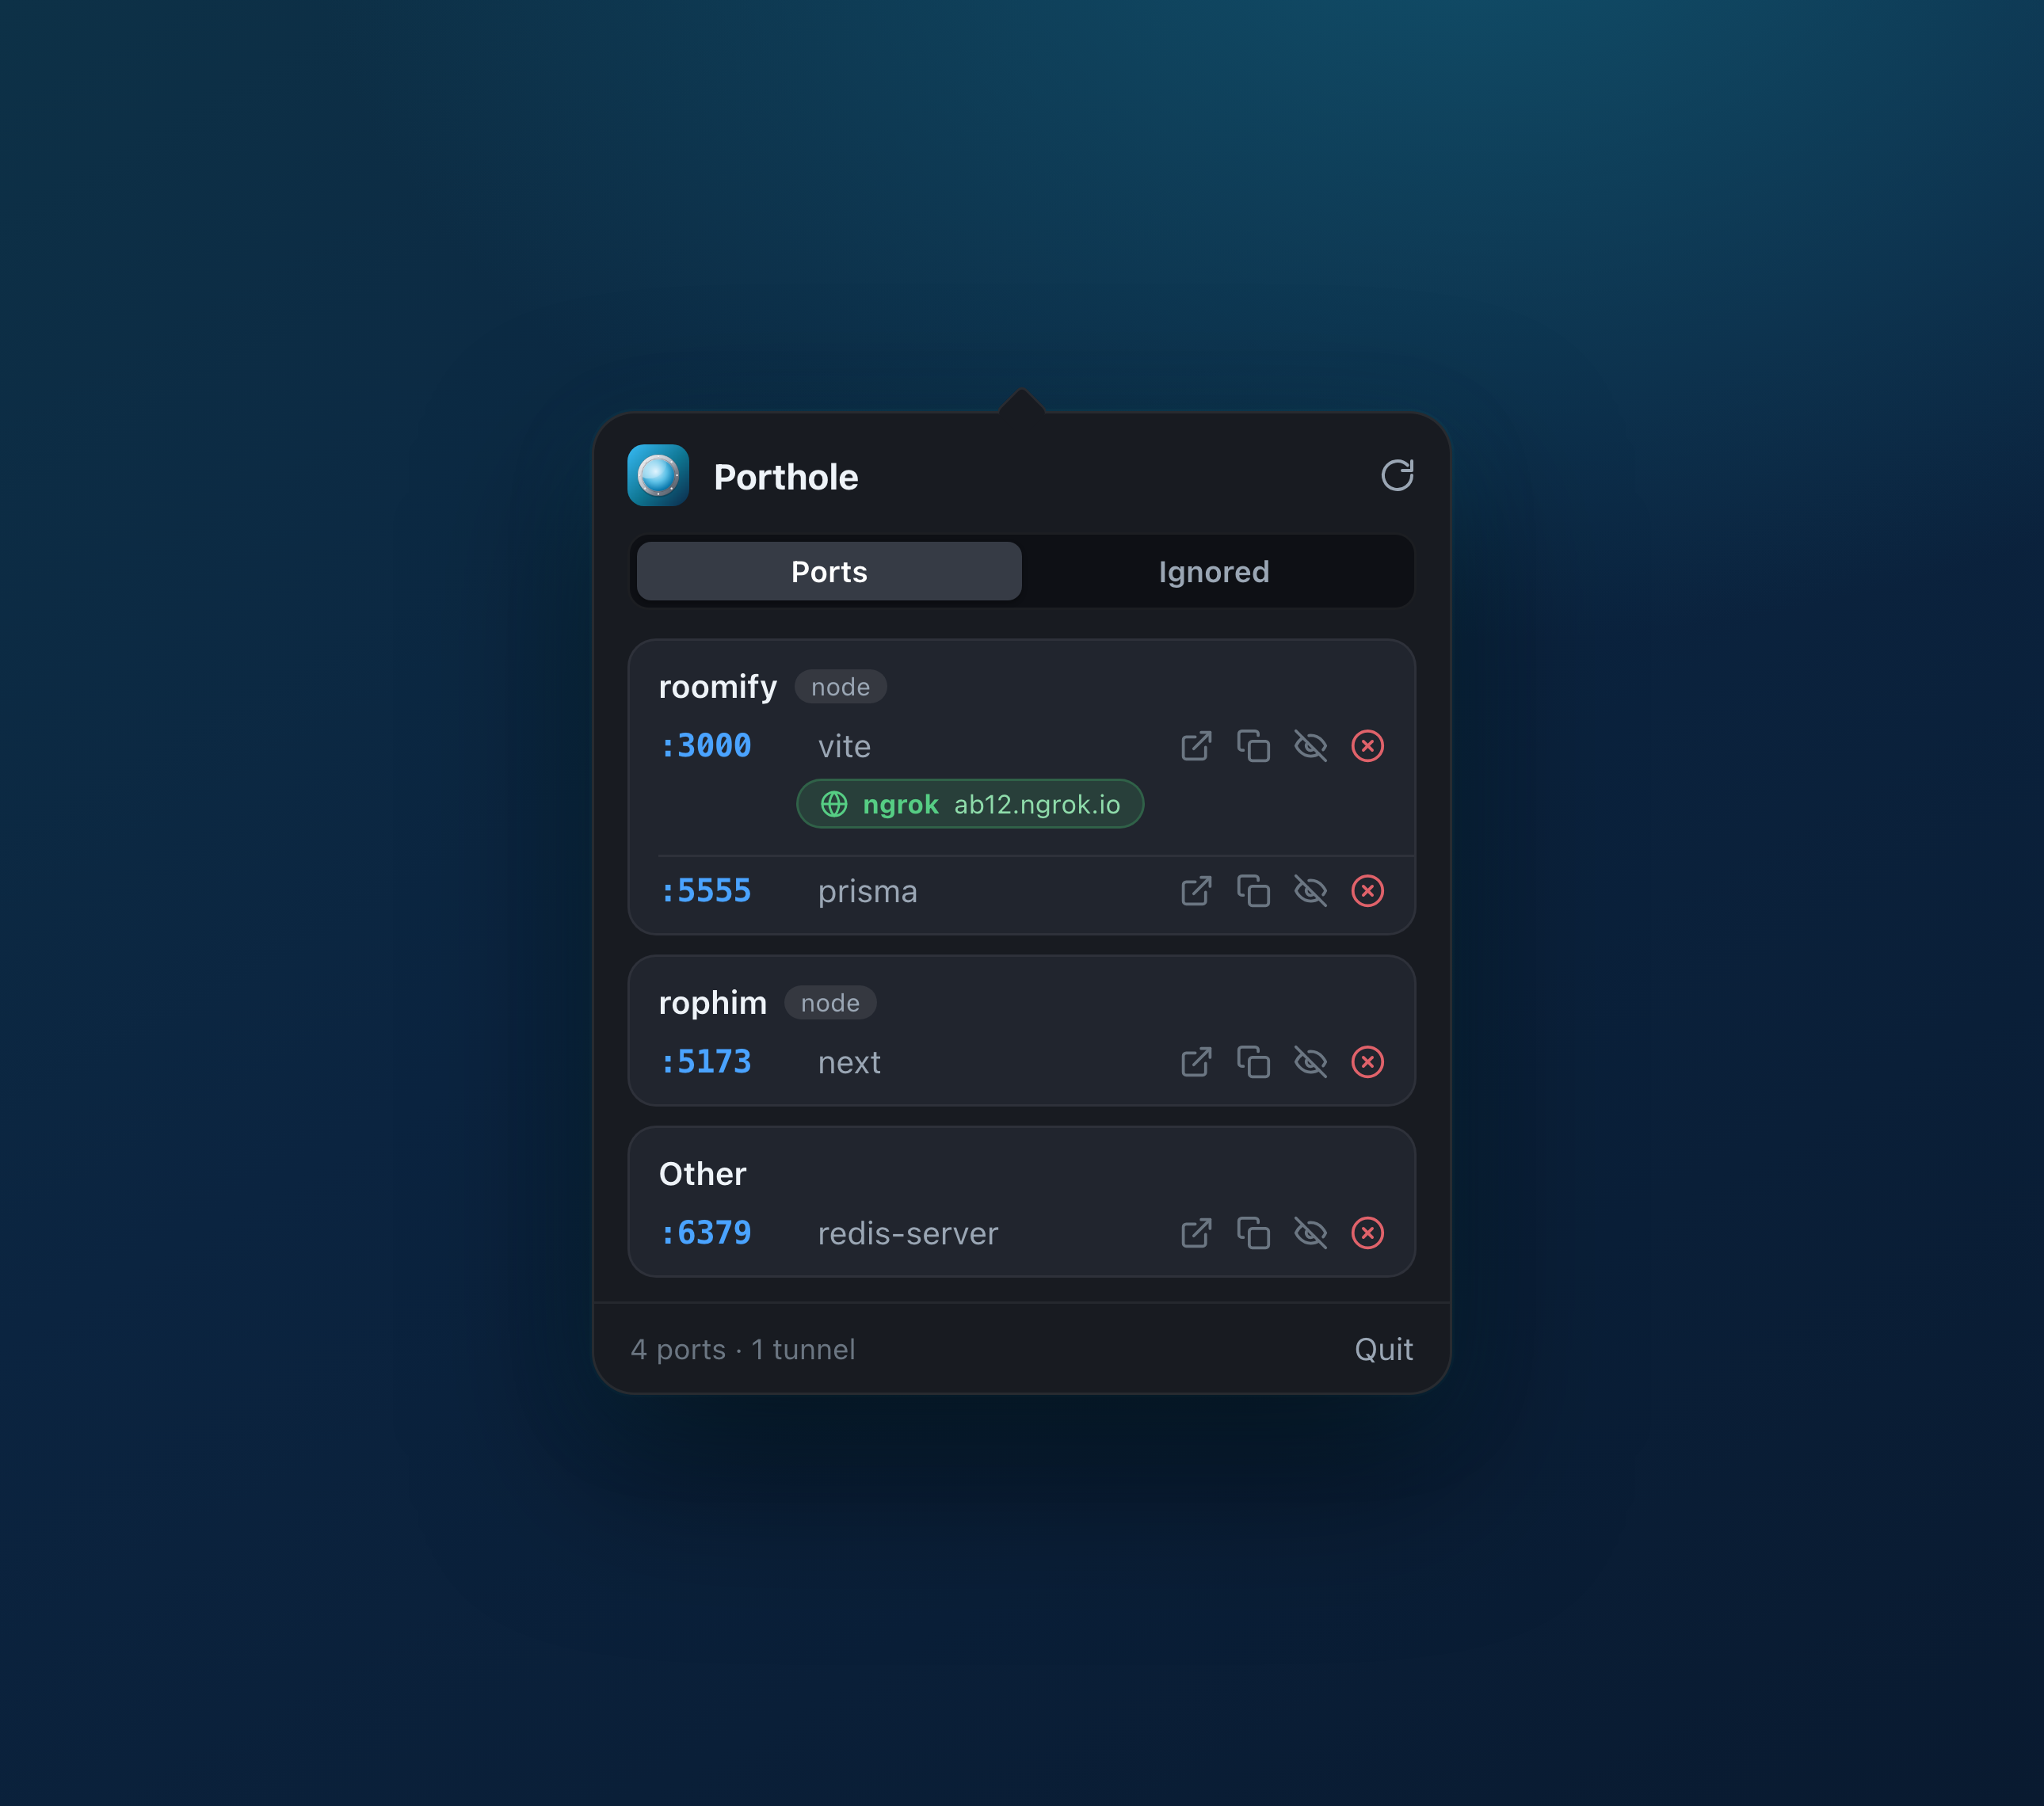
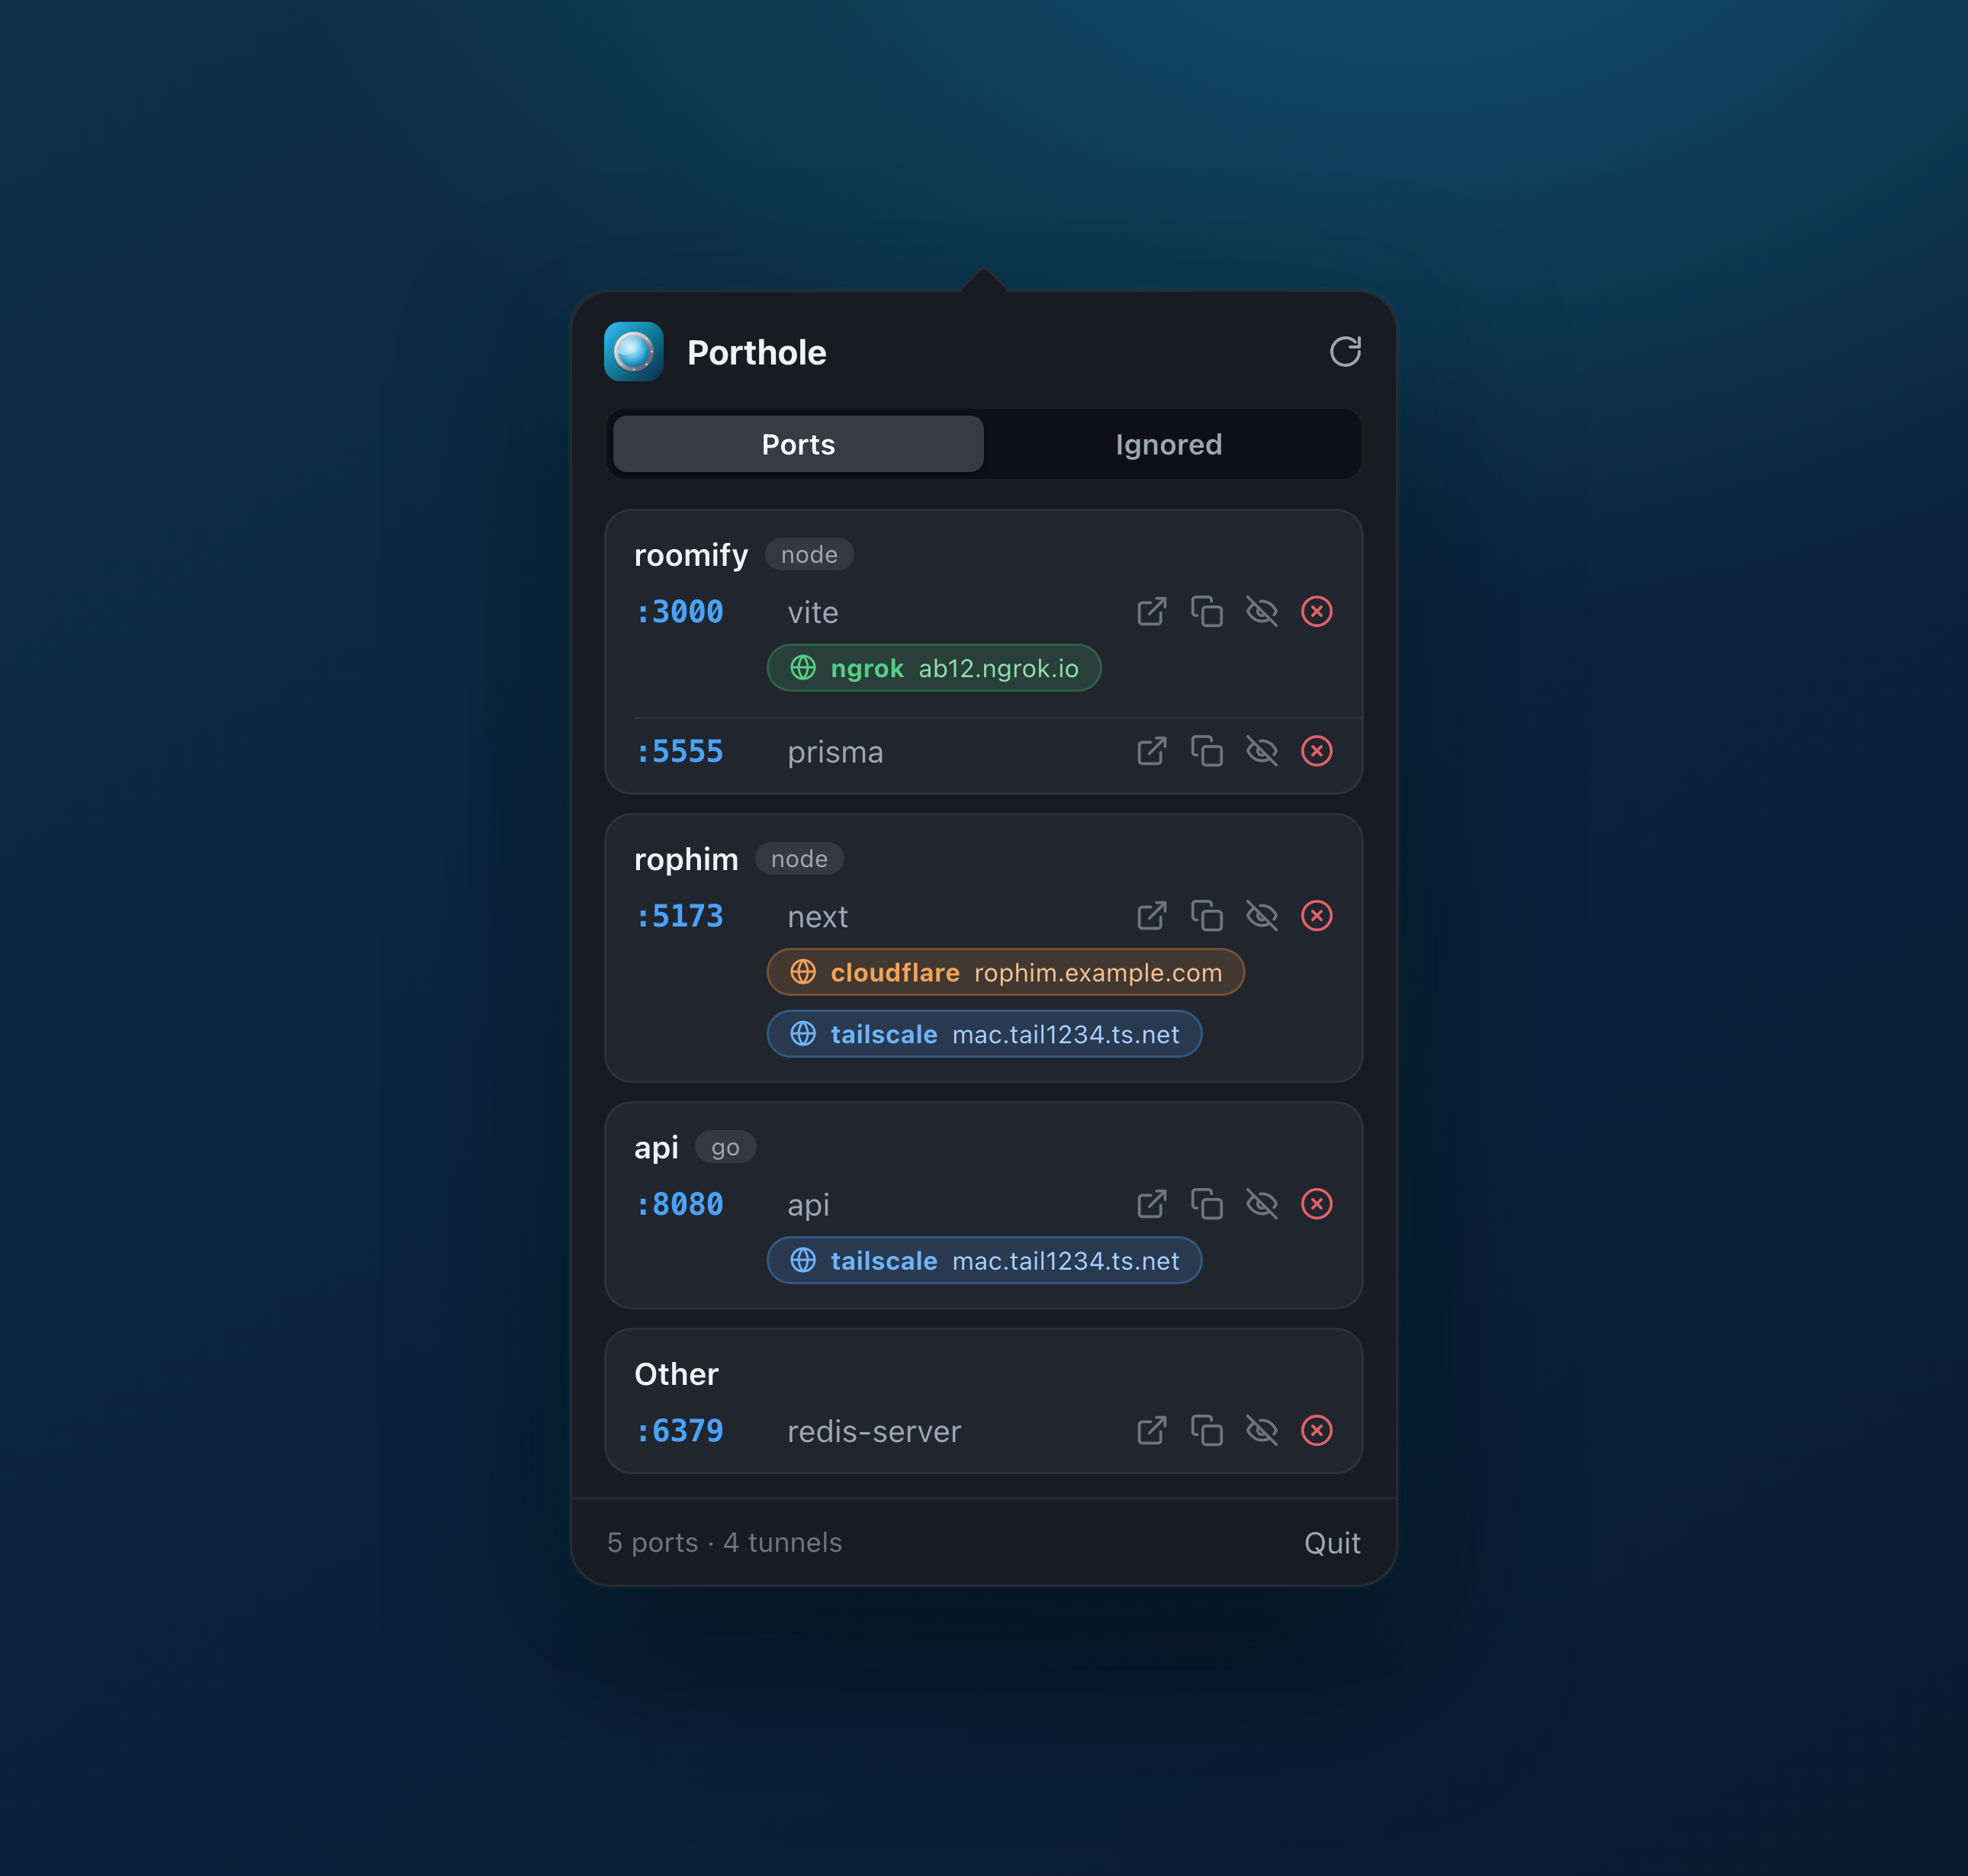
design: rebuild landing PlugTalk-style; diversify mock tunnels (cloudflare+tailscale); drop em-dashes

Changed region(s): [[0.2791, 0.1246, 0.7132, 0.8408], [0.5891, 0.4048, 0.6822, 0.436]]

diff --git a/landing/index.html b/landing/index.html
@@ -3,101 +3,191 @@
 <head>
 <meta charset="utf-8" />
 <meta name="viewport" content="width=device-width, initial-scale=1" />
-<title>Porthole — dev ports & tunnels in your menu bar</title>
+<title>Porthole: dev ports & tunnels in your menu bar</title>
 <meta name="description" content="A macOS menu bar app that shows which dev ports are running, which project owns each one, and which tunnels point where." />
 <meta property="og:title" content="Porthole" />
 <meta property="og:description" content="See which dev ports are running, which project owns each one, and which tunnels point where, right from your menu bar." />
 <meta property="og:image" content="hero.png" />
 <meta property="og:type" content="website" />
+<meta name="twitter:card" content="summary_large_image" />
 <link rel="icon" href="icon.png" />
+<link rel="preconnect" href="https://fonts.googleapis.com" />
+<link rel="preconnect" href="https://fonts.gstatic.com" crossorigin />
+<link href="https://fonts.googleapis.com/css2?family=Space+Grotesk:wght@500;600;700&family=Inter:wght@400;500;600&display=swap" rel="stylesheet" />
 <style>
+  *{margin:0;padding:0;box-sizing:border-box}
   :root{
-    --bg:#0a1c33; --bg2:#0c2a45; --panel:#10233a; --card:#13283f;
-    --line:#23415f; --text:#eaf2f9; --muted:#9fb2c6; --teal:#2dd4bf; --sky:#38bdf8;
+    --ink:#07182a; --ink2:#0c2034; --card:#0f263b; --line:rgba(255,255,255,.08);
+    --cream:#e9f2fb; --muted:#94abc2; --faint:#6f879e;
+    --sky:#38bdf8; --teal:#2dd4bf; --orange:#f0a35a; --green:#56cd84;
+    --disp:"Space Grotesk",-apple-system,sans-serif; --body:"Inter",-apple-system,sans-serif;
   }
-  *{box-sizing:border-box;margin:0;padding:0}
   html{scroll-behavior:smooth}
-  body{
-    font-family:-apple-system,BlinkMacSystemFont,"Segoe UI",Helvetica,Arial,sans-serif;
-    color:var(--text);
-    background:radial-gradient(1200px 800px at 70% -10%, #0f3a52 0%, var(--bg2) 45%, var(--bg) 100%);
-    min-height:100vh; -webkit-font-smoothing:antialiased;
-  }
-  .wrap{max-width:1040px;margin:0 auto;padding:0 24px}
-  header{display:flex;align-items:center;justify-content:space-between;padding:24px 0}
-  .brand{display:flex;align-items:center;gap:12px;font-weight:700;font-size:18px}
-  .brand img{width:34px;height:34px;border-radius:8px}
-  nav a{color:var(--muted);text-decoration:none;margin-left:22px;font-size:14px}
-  nav a:hover{color:var(--text)}
-  .hero{text-align:center;padding:48px 0 24px}
-  .hero h1{font-size:54px;line-height:1.05;letter-spacing:-.02em;margin-bottom:18px}
-  .hero h1 .grad{background:linear-gradient(90deg,var(--sky),var(--teal));-webkit-background-clip:text;background-clip:text;color:transparent}
-  .hero p{font-size:20px;color:var(--muted);max-width:640px;margin:0 auto 30px}
-  .cta{display:flex;gap:14px;justify-content:center;flex-wrap:wrap;align-items:center}
-  .btn{display:inline-flex;align-items:center;gap:8px;padding:13px 22px;border-radius:12px;font-weight:600;font-size:15px;text-decoration:none;border:1px solid transparent}
-  .btn-primary{background:linear-gradient(90deg,var(--sky),var(--teal));color:#062033}
-  .btn-primary:hover{filter:brightness(1.06)}
-  .brew{display:inline-flex;align-items:center;gap:10px;background:#0a1726;border:1px solid var(--line);border-radius:12px;padding:12px 16px;font-family:ui-monospace,SFMono-Regular,Menlo,monospace;font-size:14px;color:var(--text)}
-  .brew button{background:none;border:none;color:var(--muted);cursor:pointer;font-size:13px}
+  body{font-family:var(--body);color:var(--cream);background:var(--ink);-webkit-font-smoothing:antialiased;overflow-x:hidden}
+  a{color:inherit;text-decoration:none}
+  .wrap{max-width:1080px;margin:0 auto;padding:0 24px}
+  .grad{background:linear-gradient(100deg,var(--sky),var(--teal));-webkit-background-clip:text;background-clip:text;color:transparent}
+
+  /* header */
+  header{position:fixed;inset:0 0 auto 0;z-index:50;backdrop-filter:blur(12px);background:rgba(7,24,42,.6);border-bottom:1px solid var(--line)}
+  header .wrap{display:flex;align-items:center;justify-content:space-between;height:62px}
+  .brand{display:flex;align-items:center;gap:10px;font-family:var(--disp);font-weight:700;font-size:17px}
+  .brand img{width:30px;height:30px;border-radius:8px}
+  nav.links{display:flex;gap:26px;font-size:14px}
+  nav.links a{color:var(--muted)} nav.links a:hover{color:var(--cream)}
+  .btn{display:inline-flex;align-items:center;gap:8px;border-radius:999px;font-weight:600;font-size:14px;padding:10px 18px;transition:.15s}
+  .btn-primary{background:linear-gradient(100deg,var(--sky),var(--teal));color:#06243a}
+  .btn-primary:hover{filter:brightness(1.07);transform:translateY(-1px)}
+  .btn-ghost{border:1px solid var(--line);color:var(--cream)}
+  .btn-ghost:hover{border-color:var(--teal);color:var(--teal)}
+  @media(max-width:720px){nav.links{display:none}}
+
+  /* glows */
+  .glow{position:absolute;border-radius:50%;filter:blur(90px);opacity:.5;pointer-events:none;z-index:0}
+
+  /* hero */
+  .hero{position:relative;padding:130px 0 70px;text-align:center;overflow:hidden}
+  .hero .glow.a{width:560px;height:560px;background:#0e7490;top:-160px;right:-120px;opacity:.45}
+  .hero .glow.b{width:440px;height:440px;background:#155e75;bottom:-160px;left:-140px;opacity:.4}
+  .badge{display:inline-flex;align-items:center;gap:8px;border:1px solid var(--line);background:rgba(45,212,191,.08);color:var(--teal);font-size:12px;font-weight:600;letter-spacing:.04em;text-transform:uppercase;padding:7px 14px;border-radius:999px;margin-bottom:26px}
+  .badge .dot{width:6px;height:6px;border-radius:50%;background:var(--teal)}
+  h1{position:relative;font-family:var(--disp);font-weight:700;letter-spacing:-.03em;line-height:1.02;font-size:clamp(40px,7vw,76px);margin-bottom:22px}
+  .sub{position:relative;font-size:clamp(17px,2.4vw,21px);color:var(--muted);max-width:620px;margin:0 auto 32px;line-height:1.55}
+  .cta{position:relative;display:flex;gap:14px;justify-content:center;align-items:center;flex-wrap:wrap}
+  .brew{display:inline-flex;align-items:center;gap:10px;background:#06121f;border:1px solid var(--line);border-radius:999px;padding:9px 8px 9px 16px;font-family:ui-monospace,Menlo,monospace;font-size:13.5px;color:var(--cream)}
+  .brew button{background:rgba(255,255,255,.06);border:none;color:var(--muted);cursor:pointer;font:inherit;font-size:12px;padding:6px 10px;border-radius:999px}
   .brew button:hover{color:var(--teal)}
-  .shot{margin:48px auto 0;max-width:680px;display:block;width:100%;height:auto;
-    border-radius:18px;filter:drop-shadow(0 30px 60px rgba(0,0,0,.5))}
-  .features{display:grid;grid-template-columns:repeat(auto-fit,minmax(280px,1fr));gap:18px;margin:88px 0 40px}
-  .feat{background:var(--card);border:1px solid var(--line);border-radius:16px;padding:24px}
-  .feat h3{font-size:17px;margin-bottom:8px;display:flex;align-items:center;gap:9px}
-  .feat p{color:var(--muted);font-size:14.5px;line-height:1.55}
-  .dot{width:9px;height:9px;border-radius:50%;display:inline-block}
-  .how{background:var(--panel);border:1px solid var(--line);border-radius:16px;padding:28px 30px;margin-bottom:60px}
-  .how h2{font-size:22px;margin-bottom:12px}
-  .how p{color:var(--muted);line-height:1.65;font-size:15px}
-  .how code{background:#0a1726;border:1px solid var(--line);border-radius:6px;padding:1px 6px;font-family:ui-monospace,Menlo,monospace;font-size:13px}
-  footer{border-top:1px solid var(--line);padding:28px 0 48px;color:var(--muted);font-size:14px;display:flex;justify-content:space-between;flex-wrap:wrap;gap:12px}
-  footer a{color:var(--muted)}
-  footer a:hover{color:var(--text)}
-  @media(max-width:600px){.hero h1{font-size:38px}.hero p{font-size:17px}}
+  .shotwrap{position:relative;margin:60px auto 0;max-width:560px}
+  .shotwrap .glow{width:70%;height:70%;left:15%;top:18%;background:#1390a8;opacity:.5}
+  .shot{position:relative;width:100%;height:auto;border-radius:20px;border:1px solid var(--line);
+    box-shadow:0 40px 90px rgba(0,0,0,.55);animation:float 6s ease-in-out infinite}
+  @keyframes float{0%,100%{transform:translateY(0)}50%{transform:translateY(-10px)}}
+  .menubarhint{display:inline-flex;align-items:center;gap:7px;color:var(--teal);font-size:12px;font-weight:700;letter-spacing:.08em;text-transform:uppercase;margin-bottom:14px}
+
+  /* sections */
+  section.block{position:relative;padding:84px 0;border-top:1px solid var(--line)}
+  .eyebrow{font-family:var(--disp);color:var(--teal);font-size:13px;font-weight:600;letter-spacing:.12em;text-transform:uppercase;margin-bottom:12px}
+  h2{font-family:var(--disp);font-weight:700;letter-spacing:-.02em;font-size:clamp(30px,4.5vw,46px);line-height:1.05;margin-bottom:16px}
+  .lead{color:var(--muted);font-size:17px;line-height:1.6;max-width:620px}
+
+  .features{display:grid;grid-template-columns:repeat(auto-fit,minmax(290px,1fr));gap:18px;margin-top:46px}
+  .feat{background:var(--card);border:1px solid var(--line);border-radius:16px;padding:26px;transition:.2s}
+  .feat:hover{border-color:rgba(45,212,191,.35);transform:translateY(-3px)}
+  .feat .ic{width:42px;height:42px;border-radius:11px;display:flex;align-items:center;justify-content:center;margin-bottom:16px;background:rgba(56,189,248,.12);color:var(--sky)}
+  .feat h3{font-family:var(--disp);font-size:18px;font-weight:600;margin-bottom:8px}
+  .feat p{color:var(--muted);font-size:14.5px;line-height:1.6}
+  code{background:#06121f;border:1px solid var(--line);border-radius:6px;padding:1px 6px;font-family:ui-monospace,Menlo,monospace;font-size:13px;color:var(--teal)}
+
+  .chips{display:flex;flex-wrap:wrap;gap:10px;margin-top:26px}
+  .chip{display:inline-flex;align-items:center;gap:8px;background:var(--card);border:1px solid var(--line);border-radius:999px;padding:8px 15px;font-size:13.5px;color:var(--muted)}
+  .chip .d{width:8px;height:8px;border-radius:50%}
+
+  /* install */
+  .install{text-align:center}
+  .install .box{display:inline-flex;flex-direction:column;gap:18px;align-items:center;background:var(--card);border:1px solid var(--line);border-radius:20px;padding:40px;margin-top:30px;max-width:560px;width:100%}
+  .install .cmd{font-family:ui-monospace,Menlo,monospace;font-size:15px;background:#06121f;border:1px solid var(--line);border-radius:12px;padding:14px 18px;width:100%;display:flex;justify-content:space-between;align-items:center;gap:12px}
+  .install .cmd button{background:rgba(255,255,255,.06);border:none;color:var(--muted);cursor:pointer;font:inherit;font-size:12px;padding:6px 11px;border-radius:8px}
+  .install .cmd button:hover{color:var(--teal)}
+  .note{color:var(--faint);font-size:13.5px}
+
+  footer{border-top:1px solid var(--line);padding:30px 0 60px}
+  footer .wrap{display:flex;justify-content:space-between;flex-wrap:wrap;gap:14px;color:var(--muted);font-size:14px;align-items:center}
+  footer a:hover{color:var(--cream)}
+
+  .reveal{opacity:0;transform:translateY(26px);transition:opacity .6s ease,transform .6s ease}
+  .reveal.in{opacity:1;transform:none}
+  @media(prefers-reduced-motion:reduce){.shot{animation:none}.reveal{opacity:1;transform:none}}
 </style>
 </head>
 <body>
-<div class="wrap">
-  <header>
-    <div class="brand"><img src="icon.png" alt="" />Porthole</div>
-    <nav>
+
+<header>
+  <div class="wrap">
+    <a class="brand" href="#"><img src="icon.png" alt="" />Porthole</a>
+    <nav class="links">
       <a href="#features">Features</a>
+      <a href="#how">How it works</a>
+      <a href="#install">Install</a>
       <a href="https://github.com/ntd4996/Porthole">GitHub</a>
     </nav>
-  </header>
+    <a class="btn btn-primary" href="https://github.com/ntd4996/Porthole/releases/latest">Download</a>
+  </div>
+</header>
 
-  <section class="hero">
+<section class="hero">
+  <span class="glow a"></span><span class="glow b"></span>
+  <div class="wrap">
+    <span class="badge"><span class="dot"></span>macOS 14+ · Apple Silicon &amp; Intel · Free &amp; open source</span>
     <h1>Your dev ports,<br/><span class="grad">at a glance.</span></h1>
-    <p>A macOS menu bar app that shows which ports are running, which project owns each one, and which tunnels point where.</p>
+    <p class="sub">A macOS menu bar app that shows which ports are running, which project owns each one, and which tunnels point where.</p>
     <div class="cta">
       <a class="btn btn-primary" href="https://github.com/ntd4996/Porthole/releases/latest">Download for macOS</a>
-      <span class="brew"><span id="brewcmd">brew install --cask ntd4996/tap/porthole</span><button onclick="copyBrew()">copy</button></span>
+      <span class="brew"><span id="brew">brew install --cask ntd4996/tap/porthole</span><button onclick="cp('brew',this)">Copy</button></span>
     </div>
-    <img class="shot" src="hero.png" alt="Porthole menu bar popover showing dev ports grouped by project" />
-  </section>
+    <div class="shotwrap reveal">
+      <span class="glow"></span>
+      <img class="shot" src="hero.png" alt="Porthole menu bar popover showing dev ports grouped by project, with ngrok, Cloudflare and Tailscale tunnels" />
+    </div>
+  </div>
+</section>
 
-  <section class="features" id="features">
-    <div class="feat"><h3><span class="dot" style="background:var(--sky)"></span>Ports, grouped by project</h3><p>Every listening dev port with the process behind it, grouped under the project that owns it, resolved from the process working directory.</p></div>
-    <div class="feat"><h3><span class="dot" style="background:#48c774"></span>Tunnels, mapped to ports</h3><p>ngrok, Cloudflare Tunnel, Tailscale and localtunnel detected automatically, with the public URL one click away.</p></div>
-    <div class="feat"><h3><span class="dot" style="background:#f59e0b"></span>One-click actions</h3><p>Open <code>localhost:PORT</code> in the browser, copy the URL, or kill the process, straight from the row.</p></div>
-    <div class="feat"><h3><span class="dot" style="background:#a78bfa"></span>Ignore the noise</h3><p>Hide system services like ControlCenter and rapportd by name or port. Seeded with sensible defaults, fully editable.</p></div>
-    <div class="feat"><h3><span class="dot" style="background:var(--teal)"></span>Native &amp; light</h3><p>A real menu bar popover with a smooth open animation, no Dock icon, no background hog.</p></div>
-    <div class="feat"><h3><span class="dot" style="background:#94a3b8"></span>No magic, no privileges</h3><p>Just reads <code>lsof</code> / <code>ps</code> and tunnel tools. No kernel extensions, no elevated access.</p></div>
-  </section>
+<section class="block" id="features">
+  <div class="wrap">
+    <div class="reveal">
+      <div class="eyebrow">Everything in one place</div>
+      <h2>Stop running <span class="grad">lsof -i</span> by hand.</h2>
+      <p class="lead">Porthole keeps a live, readable list of your local dev world in the menu bar, refreshed while it's open.</p>
+    </div>
+    <div class="features">
+      <div class="feat reveal"><div class="ic"><svg width="22" height="22" viewBox="0 0 24 24" fill="none" stroke="currentColor" stroke-width="2" stroke-linecap="round" stroke-linejoin="round"><path d="m12.83 2.18a2 2 0 0 0-1.66 0L2.6 6.08a1 1 0 0 0 0 1.83l8.58 3.91a2 2 0 0 0 1.66 0l8.58-3.9a1 1 0 0 0 0-1.83Z"/><path d="m22 17.65-9.17 4.16a2 2 0 0 1-1.66 0L2 17.65"/><path d="m22 12.65-9.17 4.16a2 2 0 0 1-1.66 0L2 12.65"/></svg></div><h3>Grouped by project</h3><p>Every listening dev port with the process behind it, grouped under the project that owns it, resolved from the process working directory.</p></div>
+      <div class="feat reveal"><div class="ic" style="background:rgba(86,205,132,.12);color:var(--green)"><svg width="22" height="22" viewBox="0 0 24 24" fill="none" stroke="currentColor" stroke-width="2" stroke-linecap="round" stroke-linejoin="round"><circle cx="12" cy="12" r="10"/><path d="M2 12h20"/><path d="M12 2a15.3 15.3 0 0 1 4 10 15.3 15.3 0 0 1-4 10 15.3 15.3 0 0 1-4-10 15.3 15.3 0 0 1 4-10z"/></svg></div><h3>Tunnels, mapped to ports</h3><p>ngrok, Cloudflare Tunnel, Tailscale and localtunnel detected automatically, each public URL one click away.</p></div>
+      <div class="feat reveal"><div class="ic" style="background:rgba(240,163,90,.12);color:var(--orange)"><svg width="22" height="22" viewBox="0 0 24 24" fill="none" stroke="currentColor" stroke-width="2" stroke-linecap="round" stroke-linejoin="round"><path d="M9 9l5 12 1.8-5.2L21 14Z"/><path d="M7.2 2.2 8 5.1"/><path d="m5.1 8-2.9-.8"/><path d="M14 4.1 12 6"/><path d="m6 12-1.9 2"/></svg></div><h3>One-click actions</h3><p>Open <code>localhost:PORT</code> in the browser, copy the URL, or kill the process, straight from the row.</p></div>
+      <div class="feat reveal"><div class="ic" style="background:rgba(167,139,250,.14);color:#a78bfa"><svg width="22" height="22" viewBox="0 0 24 24" fill="none" stroke="currentColor" stroke-width="2" stroke-linecap="round" stroke-linejoin="round"><path d="M9.88 9.88a3 3 0 1 0 4.24 4.24"/><path d="M10.73 5.08A10.43 10.43 0 0 1 12 5c7 0 10 7 10 7a13.16 13.16 0 0 1-1.67 2.68"/><path d="M6.61 6.61A13.526 13.526 0 0 0 2 12s3 7 10 7a9.74 9.74 0 0 0 5.39-1.61"/><line x1="2" x2="22" y1="2" y2="22"/></svg></div><h3>Ignore the noise</h3><p>Hide system services like ControlCenter and rapportd by name or port. Seeded with sensible defaults, fully editable.</p></div>
+      <div class="feat reveal"><div class="ic" style="background:rgba(45,212,191,.14);color:var(--teal)"><svg width="22" height="22" viewBox="0 0 24 24" fill="none" stroke="currentColor" stroke-width="2" stroke-linecap="round" stroke-linejoin="round"><path d="M4 14a1 1 0 0 1-.78-1.63l9.9-10.2a.5.5 0 0 1 .86.46l-1.92 6.02A1 1 0 0 0 13 10h7a1 1 0 0 1 .78 1.63l-9.9 10.2a.5.5 0 0 1-.86-.46l1.92-6.02A1 1 0 0 0 11 14z"/></svg></div><h3>Native &amp; light</h3><p>A real menu bar popover with a smooth open animation. No Dock icon, no background hog.</p></div>
+      <div class="feat reveal"><div class="ic" style="background:rgba(148,171,194,.14);color:#aebfd2"><svg width="22" height="22" viewBox="0 0 24 24" fill="none" stroke="currentColor" stroke-width="2" stroke-linecap="round" stroke-linejoin="round"><path d="M20 13c0 5-3.5 7.5-7.66 8.95a1 1 0 0 1-.67-.01C7.5 20.5 4 18 4 13V6a1 1 0 0 1 1-1c2 0 4.5-1.2 6.24-2.72a1.17 1.17 0 0 1 1.52 0C14.51 3.81 17 5 19 5a1 1 0 0 1 1 1z"/></svg></div><h3>No magic, no privileges</h3><p>Just reads <code>lsof</code> / <code>ps</code> and tunnel tools. No kernel extensions, no elevated access.</p></div>
+    </div>
+  </div>
+</section>
 
-  <section class="how">
-    <h2>How it works</h2>
-    <p>Porthole shells out to standard tools and parses their output: <code>lsof</code> for listening sockets and each process's directory, plus the ngrok local API, the <code>cloudflared</code>/<code>lt</code> command lines, <code>~/.cloudflared/config.yml</code> and <code>tailscale serve status</code> for tunnels. It is non-sandboxed, signed with a Developer ID, and notarized by Apple.</p>
-  </section>
+<section class="block" id="how">
+  <div class="wrap reveal">
+    <div class="eyebrow">Under the hood</div>
+    <h2>Standard tools, parsed for you.</h2>
+    <p class="lead">Porthole shells out to the tools you already trust and turns their output into a clean list. <code>lsof</code> finds listening sockets and each process's directory; tunnels come from the ngrok local API, the <code>cloudflared</code>/<code>lt</code> command lines, <code>~/.cloudflared/config.yml</code> and <code>tailscale serve status</code>. It's signed with a Developer ID and notarized by Apple.</p>
+    <div class="chips">
+      <span class="chip"><span class="d" style="background:var(--sky)"></span>lsof</span>
+      <span class="chip"><span class="d" style="background:var(--sky)"></span>ps</span>
+      <span class="chip"><span class="d" style="background:var(--green)"></span>ngrok</span>
+      <span class="chip"><span class="d" style="background:var(--orange)"></span>cloudflared</span>
+      <span class="chip"><span class="d" style="background:#6db4ff"></span>tailscale</span>
+      <span class="chip"><span class="d" style="background:#a78bfa"></span>localtunnel</span>
+    </div>
+  </div>
+</section>
 
-  <footer>
-    <span>Free &amp; open source — <a href="https://github.com/ntd4996/Porthole/blob/main/LICENSE">MIT</a></span>
+<section class="block install" id="install">
+  <div class="wrap reveal">
+    <div class="eyebrow">Get it</div>
+    <h2>Install in seconds.</h2>
+    <div class="box">
+      <div class="cmd"><span id="brew2">brew install --cask ntd4996/tap/porthole</span><button onclick="cp('brew2',this)">Copy</button></div>
+      <a class="btn btn-primary" href="https://github.com/ntd4996/Porthole/releases/latest">Or download the .dmg</a>
+      <span class="note">Signed with a Developer ID and notarized by Apple, no Gatekeeper workaround needed.</span>
+    </div>
+  </div>
+</section>
+
+<footer>
+  <div class="wrap">
+    <span>Free &amp; open source · <a class="grad" href="https://github.com/ntd4996/Porthole/blob/main/LICENSE">MIT</a></span>
     <span><a href="https://github.com/ntd4996/Porthole">github.com/ntd4996/Porthole</a></span>
-  </footer>
-</div>
+  </div>
+</footer>
+
 <script>
-function copyBrew(){navigator.clipboard.writeText(document.getElementById('brewcmd').textContent)}
+function cp(id,btn){navigator.clipboard.writeText(document.getElementById(id).textContent);var t=btn.textContent;btn.textContent='Copied';setTimeout(function(){btn.textContent=t},1200)}
+var io=new IntersectionObserver(function(es){es.forEach(function(e){if(e.isIntersecting){e.target.classList.add('in');io.unobserve(e.target)}})},{threshold:.12});
+document.querySelectorAll('.reveal').forEach(function(el){io.observe(el)});
 </script>
 </body>
 </html>

diff --git a/scripts/mockup.html b/scripts/mockup.html
@@ -14,7 +14,7 @@
     -webkit-font-smoothing:antialiased; text-rendering:optimizeLegibility;
   }
   .stage{
-    width:860px;height:760px;display:flex;align-items:center;justify-content:center;
+    width:860px;height:820px;display:flex;align-items:center;justify-content:center;
     background:
       radial-gradient(900px 600px at 72% -8%, #11506b 0%, rgba(17,80,107,0) 55%),
       linear-gradient(150deg,#0d3147 0%,#0b2440 45%,#091a30 100%);
@@ -44,12 +44,16 @@
   .port{font-family:ui-monospace,SFMono-Regular,Menlo,monospace;font-size:13.5px;font-weight:700;color:var(--sky);width:58px;letter-spacing:-.02em}
   .name{font-size:13.5px;color:var(--muted);flex:1}
   .acts{display:flex;align-items:center;gap:9px;color:var(--faint)}
-  .acts .kill{color:#e0626a}
   .div{height:1px;background:var(--line2);margin:5px 0 0 12px}
-  .tunnel{margin-top:6px;margin-left:58px;display:inline-flex;align-items:center;gap:6px;
-    background:rgba(72,199,116,.16);border:1px solid rgba(72,199,116,.25);color:#56cd84;
-    padding:3px 9px;border-radius:11px;font-size:11px;width:max-content}
-  .tunnel b{font-weight:700}.tunnel span{color:#8fdcab}
+  .tunnels{margin-top:6px;margin-left:58px;display:flex;flex-wrap:wrap;gap:6px}
+  .tunnel{display:inline-flex;align-items:center;gap:6px;padding:3px 9px;border-radius:11px;font-size:11px;border:1px solid;width:max-content}
+  .tunnel b{font-weight:700}
+  .tunnel.ng{background:rgba(72,199,116,.16);border-color:rgba(72,199,116,.25);color:#56cd84}
+  .tunnel.ng span{color:#8fdcab}
+  .tunnel.cf{background:rgba(244,150,60,.16);border-color:rgba(244,150,60,.28);color:#f0a35a}
+  .tunnel.cf span{color:#f3c08e}
+  .tunnel.ts{background:rgba(74,163,255,.16);border-color:rgba(74,163,255,.3);color:#6db4ff}
+  .tunnel.ts span{color:#a6cfff}
   .foot{display:flex;align-items:center;justify-content:space-between;padding:11px 15px;border-top:1px solid var(--line2);margin-top:4px}
   .foot .c{font-size:12px;color:var(--faint)}
   .foot .q{font-size:13px;color:var(--muted)}
@@ -80,7 +84,7 @@
               <span class="port">:3000</span><span class="name">vite</span>
               <span class="acts"><svg width="15" height="15" viewBox="0 0 24 24" fill="none" stroke="currentColor" stroke-width="2" stroke-linecap="round" stroke-linejoin="round"><path d="M15 3h6v6"/><path d="M10 14 21 3"/><path d="M18 13v6a2 2 0 0 1-2 2H5a2 2 0 0 1-2-2V8a2 2 0 0 1 2-2h6"/></svg><svg width="15" height="15" viewBox="0 0 24 24" fill="none" stroke="currentColor" stroke-width="2" stroke-linecap="round" stroke-linejoin="round"><rect width="13" height="13" x="9" y="9" rx="2"/><path d="M5 15H4a2 2 0 0 1-2-2V4a2 2 0 0 1 2-2h9a2 2 0 0 1 2 2v1"/></svg><svg width="15" height="15" viewBox="0 0 24 24" fill="none" stroke="currentColor" stroke-width="2" stroke-linecap="round" stroke-linejoin="round"><path d="M9.88 9.88a3 3 0 1 0 4.24 4.24"/><path d="M10.73 5.08A10.43 10.43 0 0 1 12 5c7 0 10 7 10 7a13.16 13.16 0 0 1-1.67 2.68"/><path d="M6.61 6.61A13.526 13.526 0 0 0 2 12s3 7 10 7a9.74 9.74 0 0 0 5.39-1.61"/><line x1="2" x2="22" y1="2" y2="22"/></svg><svg width="15" height="15" viewBox="0 0 24 24" fill="none" stroke="currentColor" stroke-width="2" stroke-linecap="round" stroke-linejoin="round" style="color:#e0626a"><circle cx="12" cy="12" r="10"/><path d="m15 9-6 6"/><path d="m9 9 6 6"/></svg></span>
             </div>
-            <div class="tunnel"><svg width="12" height="12" viewBox="0 0 24 24" fill="none" stroke="currentColor" stroke-width="2" stroke-linecap="round" stroke-linejoin="round"><circle cx="12" cy="12" r="10"/><path d="M2 12h20"/><path d="M12 2a15.3 15.3 0 0 1 4 10 15.3 15.3 0 0 1-4 10 15.3 15.3 0 0 1-4-10 15.3 15.3 0 0 1 4-10z"/></svg> <b>ngrok</b> <span>ab12.ngrok.io</span></div>
+            <div class="tunnels"><div class="tunnel ng"><svg width="12" height="12" viewBox="0 0 24 24" fill="none" stroke="currentColor" stroke-width="2" stroke-linecap="round" stroke-linejoin="round"><circle cx="12" cy="12" r="10"/><path d="M2 12h20"/><path d="M12 2a15.3 15.3 0 0 1 4 10 15.3 15.3 0 0 1-4 10 15.3 15.3 0 0 1-4-10 15.3 15.3 0 0 1 4-10z"/></svg> <b>ngrok</b> <span>ab12.ngrok.io</span></div></div>
           </div>
           <div class="div"></div>
           <div class="row"><div class="rtop"><span class="port">:5555</span><span class="name">prisma</span><span class="acts"><svg width="15" height="15" viewBox="0 0 24 24" fill="none" stroke="currentColor" stroke-width="2" stroke-linecap="round" stroke-linejoin="round"><path d="M15 3h6v6"/><path d="M10 14 21 3"/><path d="M18 13v6a2 2 0 0 1-2 2H5a2 2 0 0 1-2-2V8a2 2 0 0 1 2-2h6"/></svg><svg width="15" height="15" viewBox="0 0 24 24" fill="none" stroke="currentColor" stroke-width="2" stroke-linecap="round" stroke-linejoin="round"><rect width="13" height="13" x="9" y="9" rx="2"/><path d="M5 15H4a2 2 0 0 1-2-2V4a2 2 0 0 1 2-2h9a2 2 0 0 1 2 2v1"/></svg><svg width="15" height="15" viewBox="0 0 24 24" fill="none" stroke="currentColor" stroke-width="2" stroke-linecap="round" stroke-linejoin="round"><path d="M9.88 9.88a3 3 0 1 0 4.24 4.24"/><path d="M10.73 5.08A10.43 10.43 0 0 1 12 5c7 0 10 7 10 7a13.16 13.16 0 0 1-1.67 2.68"/><path d="M6.61 6.61A13.526 13.526 0 0 0 2 12s3 7 10 7a9.74 9.74 0 0 0 5.39-1.61"/><line x1="2" x2="22" y1="2" y2="22"/></svg><svg width="15" height="15" viewBox="0 0 24 24" fill="none" stroke="currentColor" stroke-width="2" stroke-linecap="round" stroke-linejoin="round" style="color:#e0626a"><circle cx="12" cy="12" r="10"/><path d="m15 9-6 6"/><path d="m9 9 6 6"/></svg></span></div></div>
@@ -88,7 +92,21 @@
         <!-- rophim -->
         <div class="group">
           <div class="ghead"><span class="gname">rophim</span><span class="pill-kind">node</span></div>
-          <div class="row"><div class="rtop"><span class="port">:5173</span><span class="name">next</span><span class="acts"><svg width="15" height="15" viewBox="0 0 24 24" fill="none" stroke="currentColor" stroke-width="2" stroke-linecap="round" stroke-linejoin="round"><path d="M15 3h6v6"/><path d="M10 14 21 3"/><path d="M18 13v6a2 2 0 0 1-2 2H5a2 2 0 0 1-2-2V8a2 2 0 0 1 2-2h6"/></svg><svg width="15" height="15" viewBox="0 0 24 24" fill="none" stroke="currentColor" stroke-width="2" stroke-linecap="round" stroke-linejoin="round"><rect width="13" height="13" x="9" y="9" rx="2"/><path d="M5 15H4a2 2 0 0 1-2-2V4a2 2 0 0 1 2-2h9a2 2 0 0 1 2 2v1"/></svg><svg width="15" height="15" viewBox="0 0 24 24" fill="none" stroke="currentColor" stroke-width="2" stroke-linecap="round" stroke-linejoin="round"><path d="M9.88 9.88a3 3 0 1 0 4.24 4.24"/><path d="M10.73 5.08A10.43 10.43 0 0 1 12 5c7 0 10 7 10 7a13.16 13.16 0 0 1-1.67 2.68"/><path d="M6.61 6.61A13.526 13.526 0 0 0 2 12s3 7 10 7a9.74 9.74 0 0 0 5.39-1.61"/><line x1="2" x2="22" y1="2" y2="22"/></svg><svg width="15" height="15" viewBox="0 0 24 24" fill="none" stroke="currentColor" stroke-width="2" stroke-linecap="round" stroke-linejoin="round" style="color:#e0626a"><circle cx="12" cy="12" r="10"/><path d="m15 9-6 6"/><path d="m9 9 6 6"/></svg></span></div></div>
+          <div class="row">
+            <div class="rtop"><span class="port">:5173</span><span class="name">next</span><span class="acts"><svg width="15" height="15" viewBox="0 0 24 24" fill="none" stroke="currentColor" stroke-width="2" stroke-linecap="round" stroke-linejoin="round"><path d="M15 3h6v6"/><path d="M10 14 21 3"/><path d="M18 13v6a2 2 0 0 1-2 2H5a2 2 0 0 1-2-2V8a2 2 0 0 1 2-2h6"/></svg><svg width="15" height="15" viewBox="0 0 24 24" fill="none" stroke="currentColor" stroke-width="2" stroke-linecap="round" stroke-linejoin="round"><rect width="13" height="13" x="9" y="9" rx="2"/><path d="M5 15H4a2 2 0 0 1-2-2V4a2 2 0 0 1 2-2h9a2 2 0 0 1 2 2v1"/></svg><svg width="15" height="15" viewBox="0 0 24 24" fill="none" stroke="currentColor" stroke-width="2" stroke-linecap="round" stroke-linejoin="round"><path d="M9.88 9.88a3 3 0 1 0 4.24 4.24"/><path d="M10.73 5.08A10.43 10.43 0 0 1 12 5c7 0 10 7 10 7a13.16 13.16 0 0 1-1.67 2.68"/><path d="M6.61 6.61A13.526 13.526 0 0 0 2 12s3 7 10 7a9.74 9.74 0 0 0 5.39-1.61"/><line x1="2" x2="22" y1="2" y2="22"/></svg><svg width="15" height="15" viewBox="0 0 24 24" fill="none" stroke="currentColor" stroke-width="2" stroke-linecap="round" stroke-linejoin="round" style="color:#e0626a"><circle cx="12" cy="12" r="10"/><path d="m15 9-6 6"/><path d="m9 9 6 6"/></svg></span></div>
+            <div class="tunnels">
+              <div class="tunnel cf"><svg width="12" height="12" viewBox="0 0 24 24" fill="none" stroke="currentColor" stroke-width="2" stroke-linecap="round" stroke-linejoin="round"><circle cx="12" cy="12" r="10"/><path d="M2 12h20"/><path d="M12 2a15.3 15.3 0 0 1 4 10 15.3 15.3 0 0 1-4 10 15.3 15.3 0 0 1-4-10 15.3 15.3 0 0 1 4-10z"/></svg> <b>cloudflare</b> <span>rophim.example.com</span></div>
+              <div class="tunnel ts"><svg width="12" height="12" viewBox="0 0 24 24" fill="none" stroke="currentColor" stroke-width="2" stroke-linecap="round" stroke-linejoin="round"><circle cx="12" cy="12" r="10"/><path d="M2 12h20"/><path d="M12 2a15.3 15.3 0 0 1 4 10 15.3 15.3 0 0 1-4 10 15.3 15.3 0 0 1-4-10 15.3 15.3 0 0 1 4-10z"/></svg> <b>tailscale</b> <span>mac.tail1234.ts.net</span></div>
+            </div>
+          </div>
+        </div>
+        <!-- api (go) -->
+        <div class="group">
+          <div class="ghead"><span class="gname">api</span><span class="pill-kind">go</span></div>
+          <div class="row">
+            <div class="rtop"><span class="port">:8080</span><span class="name">api</span><span class="acts"><svg width="15" height="15" viewBox="0 0 24 24" fill="none" stroke="currentColor" stroke-width="2" stroke-linecap="round" stroke-linejoin="round"><path d="M15 3h6v6"/><path d="M10 14 21 3"/><path d="M18 13v6a2 2 0 0 1-2 2H5a2 2 0 0 1-2-2V8a2 2 0 0 1 2-2h6"/></svg><svg width="15" height="15" viewBox="0 0 24 24" fill="none" stroke="currentColor" stroke-width="2" stroke-linecap="round" stroke-linejoin="round"><rect width="13" height="13" x="9" y="9" rx="2"/><path d="M5 15H4a2 2 0 0 1-2-2V4a2 2 0 0 1 2-2h9a2 2 0 0 1 2 2v1"/></svg><svg width="15" height="15" viewBox="0 0 24 24" fill="none" stroke="currentColor" stroke-width="2" stroke-linecap="round" stroke-linejoin="round"><path d="M9.88 9.88a3 3 0 1 0 4.24 4.24"/><path d="M10.73 5.08A10.43 10.43 0 0 1 12 5c7 0 10 7 10 7a13.16 13.16 0 0 1-1.67 2.68"/><path d="M6.61 6.61A13.526 13.526 0 0 0 2 12s3 7 10 7a9.74 9.74 0 0 0 5.39-1.61"/><line x1="2" x2="22" y1="2" y2="22"/></svg><svg width="15" height="15" viewBox="0 0 24 24" fill="none" stroke="currentColor" stroke-width="2" stroke-linecap="round" stroke-linejoin="round" style="color:#e0626a"><circle cx="12" cy="12" r="10"/><path d="m15 9-6 6"/><path d="m9 9 6 6"/></svg></span></div>
+            <div class="tunnels"><div class="tunnel ts"><svg width="12" height="12" viewBox="0 0 24 24" fill="none" stroke="currentColor" stroke-width="2" stroke-linecap="round" stroke-linejoin="round"><circle cx="12" cy="12" r="10"/><path d="M2 12h20"/><path d="M12 2a15.3 15.3 0 0 1 4 10 15.3 15.3 0 0 1-4 10 15.3 15.3 0 0 1-4-10 15.3 15.3 0 0 1 4-10z"/></svg> <b>tailscale</b> <span>mac.tail1234.ts.net</span></div></div>
+          </div>
         </div>
         <!-- other -->
         <div class="group">
@@ -97,7 +115,7 @@
         </div>
       </div>
 
-      <div class="foot"><span class="c">4 ports · 1 tunnel</span><span class="q">Quit</span></div>
+      <div class="foot"><span class="c">5 ports · 4 tunnels</span><span class="q">Quit</span></div>
     </div>
   </div>
 </div>

diff --git a/CONTRIBUTING.md b/CONTRIBUTING.md
@@ -12,11 +12,11 @@ swift run porthole
 
 The codebase is split in two:
 
-- **`Sources/PortholeCore`** — pure logic with no UI or process side effects: the lsof / ps /
+- **`Sources/PortholeCore`**: pure logic with no UI or process side effects, the lsof / ps /
   ngrok / cloudflared / tailscale / localtunnel parsers, project resolution, ignore rules, and
   the assembler that joins it all into `PortInfo`. Everything here is unit-tested in
   `Tests/PortholeCoreTests`.
-- **`Sources/App`** — the SwiftUI menu bar UI plus the thin layer that actually shells out
+- **`Sources/App`**: the SwiftUI menu bar UI plus the thin layer that actually shells out
   (`CommandRunner`, `ScanService`).
 
 When adding detection for a new tunnel provider or process type, put the parsing in